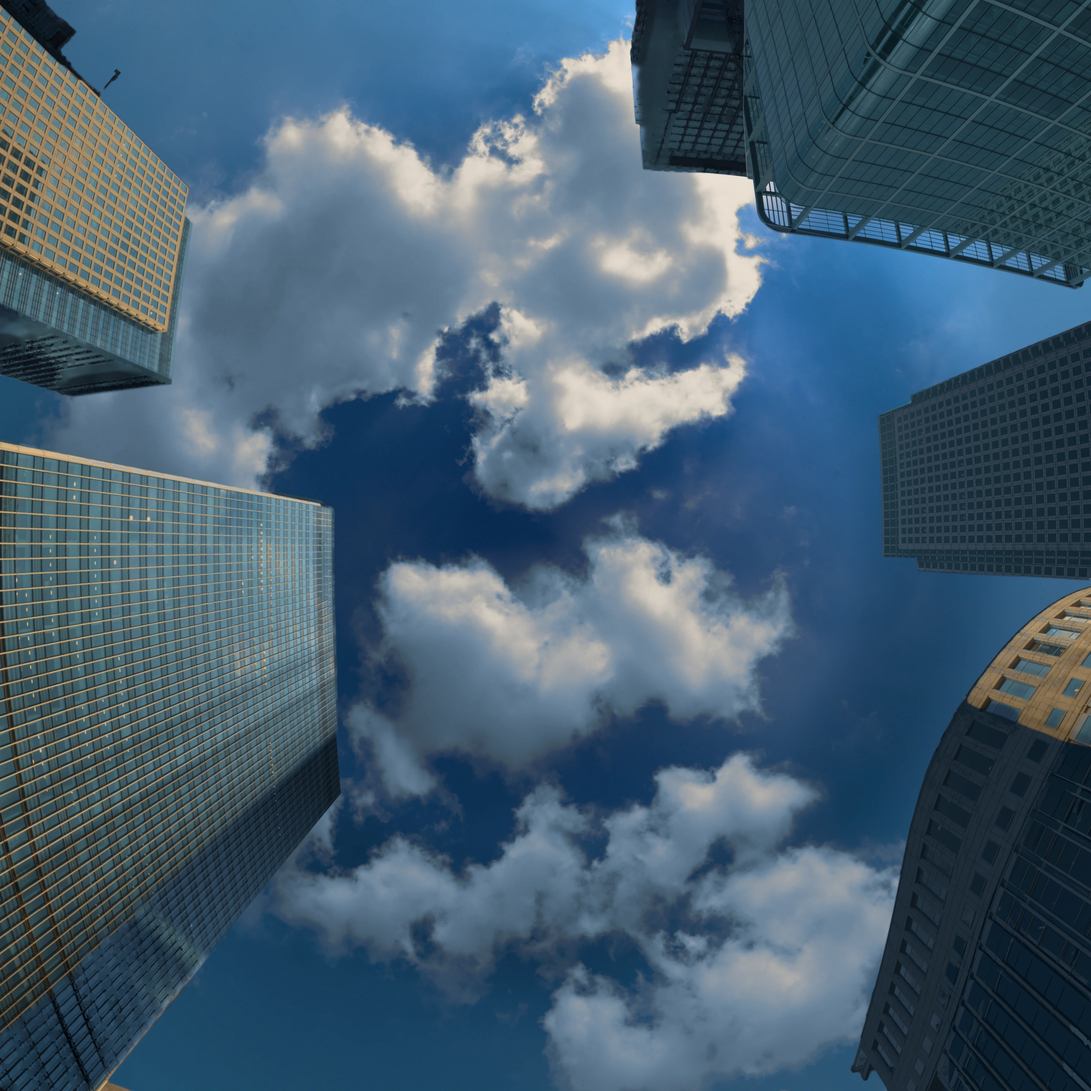
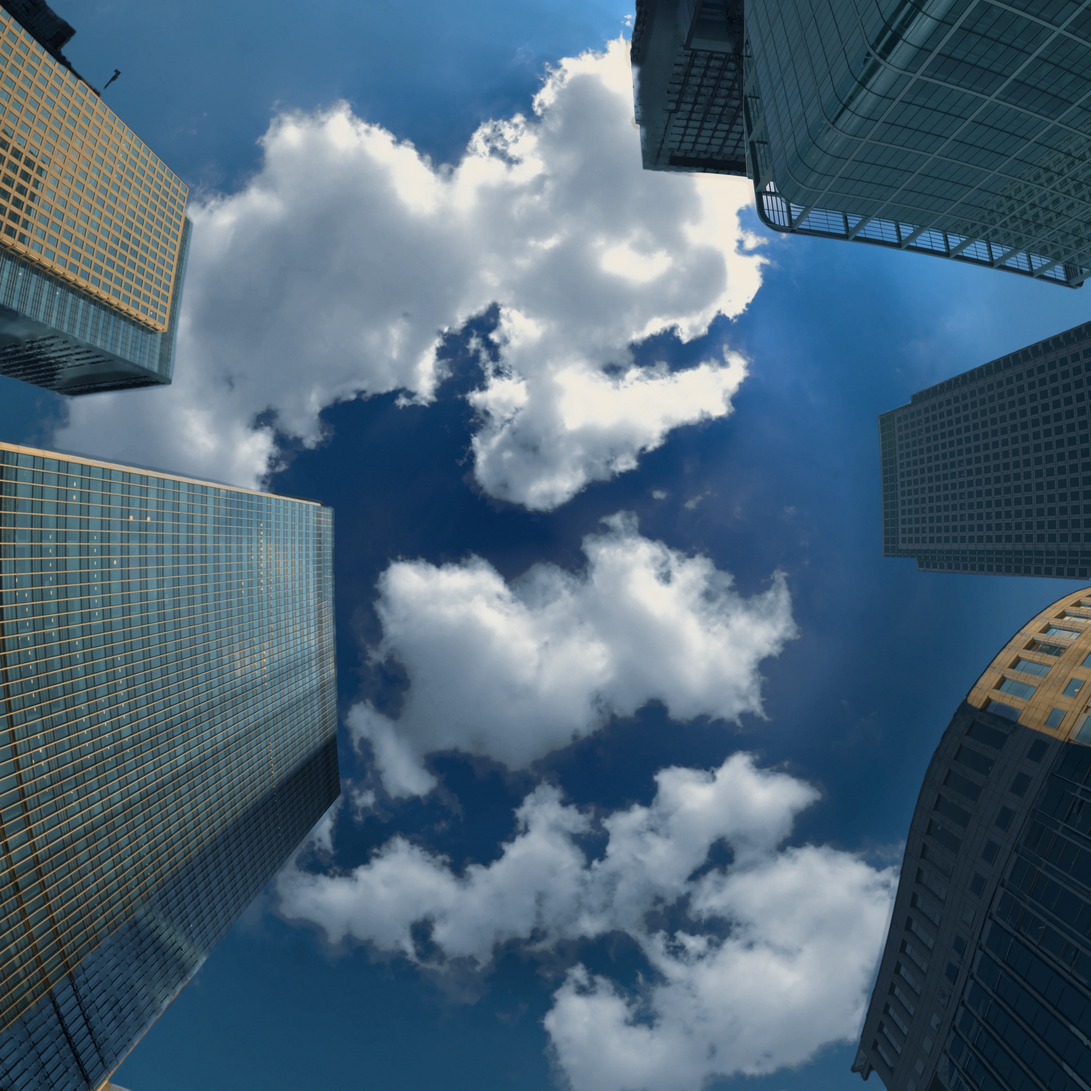
Lab: climb focal-length round 1
Claude-Session: https://claude.ai/code/session_01RqENhngNCzDFmJWDZueXGV

diff --git a/tools/depth/bakes/focal-length/cloud_glow.py b/tools/depth/bakes/focal-length/cloud_glow.py
@@ -1,0 +1,206 @@
+# The last plate pass: re-develop the cumulus so its sunlit tops glow.
+#
+# After the tower passes the clouds sat dim and grey under the film: their
+# 90th percentile came out near luma 176 in the 10 mm frame and the brightest
+# tops near 240, where herb's refs 2 and 3 sit at 215 to 226. And
+# regrade_towers.py's split tone (a logistic key on log luminance 0.28 stop
+# wide) was so steep that it drew the tops as pale, contour-edged blobs on a
+# grey-lavender body, with a soft rim where the key crossed over.
+#
+# This pass works on the published plates, on cloud pixels only (the sky
+# matte of regrade_towers.py, recomputed here, times the same low-saturation
+# weight, so the clear sky, its dithered ramp and the towers are untouched):
+#
+#  1. exposure  each cloud pixel is taken back out from under the plate's
+#               soft shoulder (comp.py's, on the brightest channel: knee
+#               0.625, ceiling 1.0 in plate light), given `stops` more light,
+#               and put back under a shoulder of the same shape that tops out
+#               at reCeil (0.93, knee 0.7) rather than 1.0: the film's per-channel curve
+#               maps plate 1.0 to paper white and bleaches anything near it
+#               to neutral, so the tops are held where it draws them at about
+#               250 and still warm, and nothing reaches 255.
+#  2. tone      every cloud pixel is re-toned at its new luminance on one
+#               logistic key of its log luminance, centred on the cKey
+#               percentile of the (new) cloud luminance and cWidth stops wide:
+#               warm-neutral above, skylight blue (208 deg) below (the warm
+#               end is topPlate, #FFF1D9 in the plate, which the film's
+#               highlight tint and per-channel shoulder take to about #FFF4E6,
+#               250 244 232, on the developed sunlit tops). At
+#               0.8 stop the key runs across nearly the whole cloud range, so
+#               the lit-to-shadow transition is a continuous gradient through
+#               the body, not a contour. The old tone is replaced, not
+#               layered: the target is the new tone at the pixel's luminance.
+#  3. blend     the regraded pixel replaces the old one by the cloud weight,
+#               so the translucent fringes and the thin wisps take a share of
+#               the lift in proportion to how much cloud they are.
+#
+# The inner inset takes the outer plate's matte by angle, refined at its
+# edges by its own pixels, and the outer plate's key, so the two plates agree
+# where they cross-fade. The outer plate's alpha (the crisp tree mask) is
+# carried through untouched.
+#
+# python3 -I cloud_glow.py outer_in.webp inner_in.webp outdir '{params}' [debug.png]
+# as published: the defaults. Measured in the developed 10 / 14 / 20 mm
+# frames: luma p90 179 -> 189 / 208 / 220, brightest 0.5% 238 -> 246 / 247 /
+# 247 at about (249, 247, 241), nothing at 255.
+# Inputs are crown_cap.py's plates (the ones published before this pass):
+# running it on its own output would lift the clouds twice.
+import sys, json, numpy as np, cv2
+from PIL import Image
+LUMA = np.array([0.2126, 0.7152, 0.0722], np.float32)
+P = dict(q=93, stops=0.6, cKey=65, cWidth=0.8, cHue=208.0, cSat=0.36, topPlate='#fff1d9',
+         cS0=0.5, cS1=0.36, hiKnee=0.625, hiCeil=1.0, reKnee=0.7, reCeil=0.93, tqMax=0.985, innerDeg=47.5, thLo=84.0, thHi=90.0,
+         texDeg=0.07, poolDeg=0.23, texHi=0.035, growDeg=0.2, gapDeg=0.6, closeDeg=0.5, openDeg=0.35,
+         texLoose=0.018, openLoose=0.6, thLoose=62.0, minDeg=2.0, feather=0.06)
+if len(sys.argv) > 4: P.update(json.loads(sys.argv[4]))
+DBG = sys.argv[5] if len(sys.argv) > 5 else ''
+s2l = lambda v: np.where(v <= 0.04045, v / 12.92, ((v + 0.055) / 1.055) ** 2.4).astype(np.float32)
+def l2s(v):
+    v = np.clip(v, 0, 1)
+    return np.where(v <= 0.0031308, v * 12.92, 1.055 * np.power(v, 1 / 2.4) - 0.055).astype(np.float32)
+def smooth(a, b, x):
+    t = np.clip((x - a) / (b - a), 0, 1); return t * t * (3 - 2 * t)
+def hsv2lin(h, sa, v=1.0):
+    h = np.float32(h) / 60.0
+    f = lambda n: v - v * sa * np.clip(np.minimum(np.minimum((n + h) % 6, 4 - (n + h) % 6), 1), 0, 1)
+    return s2l(np.array([f(5), f(3), f(1)], np.float32))
+def unit(c): return (c / (c @ LUMA)).astype(np.float32)
+def theta(N, span):
+    ax = ((np.arange(N, dtype=np.float32) + 0.5) - N / 2) / (N / 2) * span
+    return np.hypot(ax[None, :], ax[:, None])
+
+# ---- the sky matte, as regrade_towers.py draws it
+def cand_of(lin, ppd):
+    im = l2s(lin)
+    r, b = im[..., 0], im[..., 2]
+    V = im.max(-1); S = 1 - im.min(-1) / (V + 1e-5)
+    Y = im @ LUMA
+    sig = max(1.0, 2.0 * ppd / 21.56)
+    Yb = cv2.GaussianBlur(Y, (0, 0), sig)
+    tex = cv2.GaussianBlur(np.abs(Y - Yb), (0, 0), 1.5 * sig) / (Yb + 0.05)
+    return ((((b >= r) & (V > 0.28)) | ((V > 0.8) & (S < 0.2))) & (tex < 0.06)), V, b >= r
+
+def matte_outer(lin, th):
+    cand, V, blu = cand_of(lin, lin.shape[0] / 2 / 95.0)
+    cand = (cand & (th < 88)).astype(np.uint8)
+    n, lab = cv2.connectedComponents(cand, connectivity=4)
+    seed = np.unique(lab[(th < 2) & (cand > 0)])
+    m = np.isin(lab, seed[seed > 0]).astype(np.uint8); del lab
+    n, lab, _, _ = cv2.connectedComponentsWithStats((1 - m).astype(np.uint8), connectivity=8)
+    outside = set(np.unique(lab[th >= 87]).tolist())
+    cnt = np.maximum(np.bincount(lab.ravel(), minlength=n), 1)
+    ym = np.bincount(lab.ravel(), weights=V.ravel(), minlength=n) / cnt
+    yb = np.bincount(lab.ravel(), weights=blu.ravel().astype(np.float32), minlength=n) / cnt
+    fill = [i for i in range(1, n) if i not in outside and (ym[i] > 0.5 or (yb[i] > 0.8 and ym[i] > 0.25))]
+    return (m | np.isin(lab, fill)).astype(np.uint8)
+
+o8 = np.asarray(Image.open(sys.argv[1]).convert('RGBA')).copy()
+O = s2l(o8[..., :3].astype(np.float32) / 255)
+I = s2l(np.asarray(Image.open(sys.argv[2]).convert('RGB')).astype(np.float32) / 255)
+outdir = sys.argv[3]
+NO, NI = O.shape[0], I.shape[0]
+RID = P['innerDeg']
+thO = theta(NO, 95.0); thI = theta(NI, RID)
+ppdO = NO / 2 / 95.0; ppdI = NI / 2 / RID
+# The matte leaks onto glass that mirrors the sky and onto pale crowns, and
+# lifting those would light the towers. Clouds are soft and facades are not:
+# a local high-pass energy (sigma texDeg, pooled over poolDeg, relative to the
+# local light) marks anything with a window grid (as an area: see facade),
+# dilated past its edge and taken out of the matte; then only the pieces of what is left that touch the
+# zenith's sky, or are big enough to be cloud on their own, are kept.
+def facade(X, ppd, th):
+    Y = l2s(X) @ LUMA
+    hp = np.abs(Y - cv2.GaussianBlur(Y, (0, 0), P['texDeg'] * ppd))
+    tex = cv2.GaussianBlur(hp, (0, 0), P['poolDeg'] * ppd) / (cv2.GaussianBlur(Y, (0, 0), P['poolDeg'] * ppd) + 0.05)
+    disc = lambda deg: cv2.getStructuringElement(cv2.MORPH_ELLIPSE, (2 * int(round(deg * ppd)) + 1,) * 2)
+    # closed across the panes of a grid, then opened, so the thin bright
+    # band along a cloud's sunlit edge (sharp, but a line, not an area)
+    # drops out and only the facades remain; then grown past their edges
+    def area(thr, op):
+        t = cv2.morphologyEx((tex > thr).astype(np.uint8), cv2.MORPH_CLOSE, disc(P['closeDeg']))
+        return cv2.morphologyEx(t, cv2.MORPH_OPEN, disc(op))
+    t = area(P['texHi'], P['openDeg'])
+    # low over the street the curtain walls mirror the sky smoothly enough
+    # to pass that test (the glass tower at the bottom left); the clouds there
+    # are small and soft, so past thLoose a looser one is used, which inside
+    # the big clouds overhead would mark their own puffs
+    t |= area(P['texLoose'], P['openLoose']) & (th > P['thLoose']).astype(np.uint8)
+    return cv2.dilate(t, disc(P['growDeg']))
+# regrade_towers.py's candidate test (low texture) also cut the sharp, bright
+# rim along some sunlit cloud edges out of the matte, so it never took the
+# split tone and stayed a cream band: thin gaps in the matte (closed at
+# gapDeg) are let back in where they are bright and near neutral
+mO = matte_outer(O, thO)
+def regap(m, X, ppd):
+    k = cv2.getStructuringElement(cv2.MORPH_ELLIPSE, (2 * int(round(P['gapDeg'] * ppd)) + 1,) * 2)
+    v = l2s(X); V = v.max(-1); S = 1 - v.min(-1) / (V + 1e-5)
+    return m | (cv2.morphologyEx(m, cv2.MORPH_CLOSE, k) & ((V > 0.5) & (S < 0.3)).astype(np.uint8))
+mO = regap(mO, O, ppdO) * (1 - facade(O, ppdO, thO))
+n, lab, st, _ = cv2.connectedComponentsWithStats(mO, connectivity=4)
+keep = np.zeros(n, bool); keep[1:] = st[1:, cv2.CC_STAT_AREA] > (P['minDeg'] * ppdO) ** 2
+keep[np.unique(lab[(thO < 2) & (mO > 0)])] = True; keep[0] = False
+mO = keep[lab].astype(np.uint8); del lab
+h = int(round(NO / 2 * RID / 95.0)); c0 = NO // 2
+up = cv2.resize(mO[c0 - h:c0 + h, c0 - h:c0 + h].astype(np.float32), (NI, NI), interpolation=cv2.INTER_LINEAR)
+k5 = np.ones((5, 5), np.uint8)
+ins = cv2.erode((up > 0.5).astype(np.uint8), k5); grow = cv2.dilate((up > 0.5).astype(np.uint8), k5)
+candI, _, _ = cand_of(I, ppdI)
+mI = regap((ins | (grow & candI.astype(np.uint8))), I, ppdI) * (1 - facade(I, ppdI, thI)); del up, ins, grow, candI
+mO = cv2.GaussianBlur(mO.astype(np.float32), (0, 0), P['feather'] * ppdO)
+mI = cv2.GaussianBlur(mI.astype(np.float32), (0, 0), P['feather'] * ppdI)
+
+def cloud_w(X, m, th):
+    v = l2s(X)
+    Ss = 1 - v.min(-1) / (v.max(-1) + 1e-5)
+    return (smooth(P['cS0'], P['cS1'], Ss) * m * (1 - smooth(P['thLo'], P['thHi'], th))).astype(np.float32)
+
+k1, c1 = P['hiKnee'], P['hiCeil']
+def unshoulder(X):
+    Mx = X.max(-1)
+    tq = np.clip((Mx - k1) / (c1 - k1), 0, P['tqMax'])
+    Mo = np.where(Mx < k1, Mx, k1 + (c1 - k1) * tq / (1 - tq))
+    return X * (Mo / (Mx + 1e-6))[..., None]
+def shoulder(X):
+    k2, c2 = P['reKnee'], P['reCeil']
+    Mx = X.max(-1)
+    tq = np.maximum(Mx - k2, 0) / (c2 - k2)
+    Mn = np.where(Mx < k2, Mx, k2 + (c2 - k2) * tq / (1 + tq))
+    return X * (Mn / (Mx + 1e-6))[..., None]
+
+cl_t = unit(hsv2lin(P['cHue'], P['cSat']))
+hx = P['topPlate']; top_t = unit(s2l(np.array([int(hx[i:i + 2], 16) / 255 for i in (1, 3, 5)], np.float32)))
+G = np.float32(2 ** P['stops'])
+
+# the key, from the outer plate's clouds at their new exposure
+cwO = cloud_w(O, mO, thO)
+sel = (cwO > 0.9) & (thO < 80)
+Ysel = (unshoulder(O[sel][None])[0] * G) @ LUMA
+pc = np.percentile(Ysel, [25, 50, P['cKey'], 90, 99.5])
+LK = np.log2(pc[2])
+print('cloud px', int(sel.sum()), 'new cloud Y pct 25/50/key/90/99.5', pc.round(4)); del Ysel, sel
+
+def glow(X, cw):
+    X1 = unshoulder(X) * G
+    Y1 = X1 @ LUMA
+    kk = (1 / (1 + np.exp(-(np.log2(np.maximum(Y1, 1e-5)) - LK) / P['cWidth'])))[..., None]
+    tgt = shoulder((cl_t + (top_t - cl_t) * kk) * Y1[..., None]); del X1, kk
+    return X + (tgt - X) * cw[..., None]
+
+On = glow(O, cwO)
+On *= (thO < 95 * 1.004)[..., None]
+cwI = cloud_w(I, mI, thI)
+In = glow(I, cwI)
+
+def enc(X, seed):
+    v = l2s(X)
+    rng = np.random.default_rng(seed)
+    return np.clip(v * 255 + rng.uniform(-0.5, 0.5, v.shape) + rng.uniform(-0.5, 0.5, v.shape), 0, 255).astype(np.uint8)
+oo = o8.copy(); oo[..., :3] = enc(On, 2)
+Image.fromarray(oo, 'RGBA').save(f'{outdir}/outer.webp', 'WEBP', quality=P['q'], method=6, exact=True, alpha_quality=100)
+ii = enc(In, 1)
+Image.fromarray(ii).save(f'{outdir}/inner.webp', 'WEBP', quality=P['q'], method=6)
+for n, u in (('outer', oo[..., :3]), ('inner', ii)):
+    print(n, 'max', int(u.max()), 'px at 255', int((u.max(-1) == 255).sum()))
+if DBG:
+    np.save(DBG.replace('.png', '_cw.npy'), cwO.astype(np.float16))
+    Image.fromarray((np.stack([cwO, mO, cwO * 0], -1) * 255).astype(np.uint8)).resize((1024, 1024), Image.BILINEAR).save(DBG)
